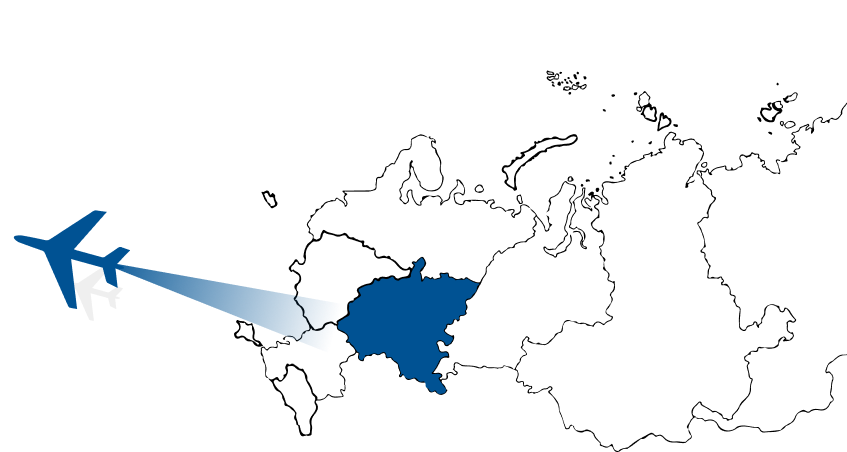
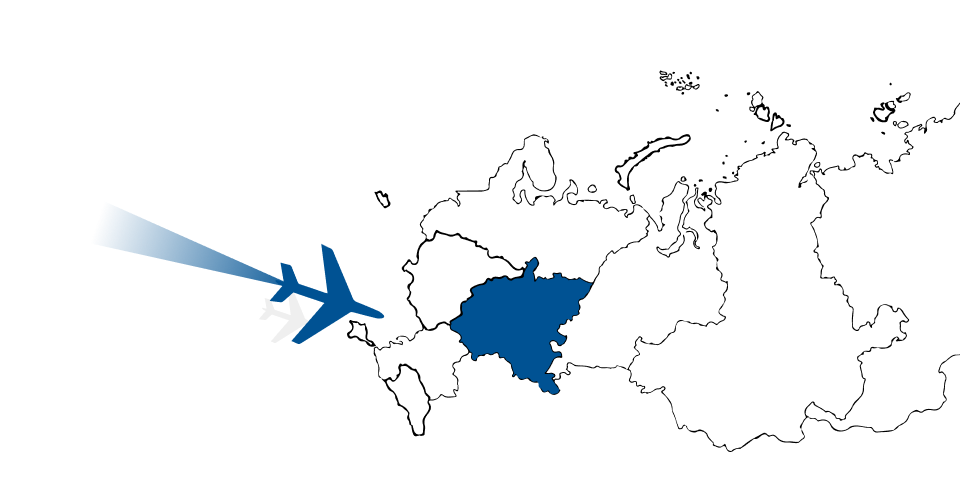
fix kazan page

diff --git a/css/style.css b/css/style.css
@@ -228,6 +228,7 @@ main {
 
 .header__nav ul li {
   margin: 0px 29px 0px 0px;
+  text-transform: uppercase;
 }
 
 .header__nav ul li:last-child {
@@ -1591,6 +1592,7 @@ body._active {
   margin-bottom: 60px;
 }
 .kazan__title {
+  margin-left: -9px;
   font-size: 100px;
   text-transform: uppercase;
 }
@@ -1598,7 +1600,7 @@ body._active {
   max-width: 312px;
   font-size: 17px;
   text-transform: uppercase;
-  line-height: normal;
+  line-height: 19.55px;
 }
 .kazan__bg {
   position: absolute;
@@ -1610,7 +1612,7 @@ body._active {
   z-index: -1;
 }
 .kazan__bg img {
-  width: 80%;
+  width: 95%;
 }
 .kazan__content {
   position: relative;
@@ -1623,6 +1625,7 @@ body._active {
 .kazan__description ul {
   margin-top: 5px;
   font-size: 12px;
+  line-height: 13.8px;
 }
 .kazan__description li {
   list-style-type: disc;
@@ -1637,7 +1640,7 @@ body._active {
   font-size: 12px;
   text-transform: uppercase;
   max-width: 250px;
-  line-height: normal;
+  line-height: 13.8px;
 }
 .kazan__contacts {
   padding-bottom: 15px;
@@ -1648,6 +1651,9 @@ body._active {
   align-items: flex-end;
   gap: 76px;
   border-bottom: 1px solid #000;
+}
+.kazan__contacts-block p {
+  line-height: 13.8px;
 }
 .kazan__contacts-block p:first-child {
   margin-bottom: 3px;
@@ -1764,9 +1770,30 @@ body._active {
   .services-solutions__items {
     padding: 0px 0px;
   }
+  .header__nav ul li {
+    margin: 0px 10px 0px 0px;
+    text-align: center;
+  }
+
+  .header__nav ul li a {
+    font-size: 14px;
+  }
 }
 
 @media screen and (max-width: 992px) {
+  .header__nav {
+    display: none;
+  }
+
+  .burger-header {
+    display: -webkit-box;
+    display: -ms-flexbox;
+    display: flex;
+  }
+
+  .menu-mobile .header__nav {
+    display: block;
+  }
   .header__logo a {
     width: 140px;
     height: 32px;
@@ -1778,15 +1805,6 @@ body._active {
 
   .header__nav ul {
     justify-content: center;
-  }
-
-  .header__nav ul li {
-    margin: 0px 10px 0px 0px;
-    text-align: center;
-  }
-
-  .header__nav ul li a {
-    font-size: 14px;
   }
 
   .header__btn {
@@ -1878,6 +1896,7 @@ body._active {
   }
   .kazan__title {
     font-size: 80px;
+    line-height: 115px;
   }
   .kazan__bg {
     top: 0;
@@ -1899,20 +1918,6 @@ body._active {
     /* -webkit-box-flex: 1;
     -ms-flex: 1 0 auto;
     flex: 1 0 auto; */
-  }
-
-  .header__nav {
-    display: none;
-  }
-
-  .burger-header {
-    display: -webkit-box;
-    display: -ms-flexbox;
-    display: flex;
-  }
-
-  .menu-mobile .header__nav {
-    display: block;
   }
 
   .main-offer__item-number {
@@ -2211,7 +2216,7 @@ body._active {
     max-width: 100%;
   }
   .kazan__bg {
-    top: 100px;
+    top: 150px;
   }
 }
 

diff --git a/kazan.html b/kazan.html
@@ -70,8 +70,9 @@
                         </p>
                     </div>
                     <div class="kazan__description">
-                        <h3 class="kazan__subtitle">Таможенное оформление</h3>
-                        <p class="kazan__description-subtitle">Хранение товаров под таможенным
+                        <h3 class="kazan__subtitle">УСЛУГИ:</h3>
+                        <p class="kazan__description-subtitle">Таможенное оформление, Хранение
+                            товаров под таможенным
                             контролем в аэропорту Казань</p>
                         <ul>
                             <li>Оферта</li>

diff --git a/js/script.js b/js/script.js
@@ -22,7 +22,7 @@ document.addEventListener('DOMContentLoaded', () => {
                 menuMobile.classList.toggle('_active');
             });
 
-            if (document.documentElement.clientWidth <= 768) {
+            if (document.documentElement.clientWidth <= 992) {
                 burger.insertAdjacentElement('afterend', menuMobile);
                 menuMobile.insertAdjacentElement('beforeend', menu);
             }
